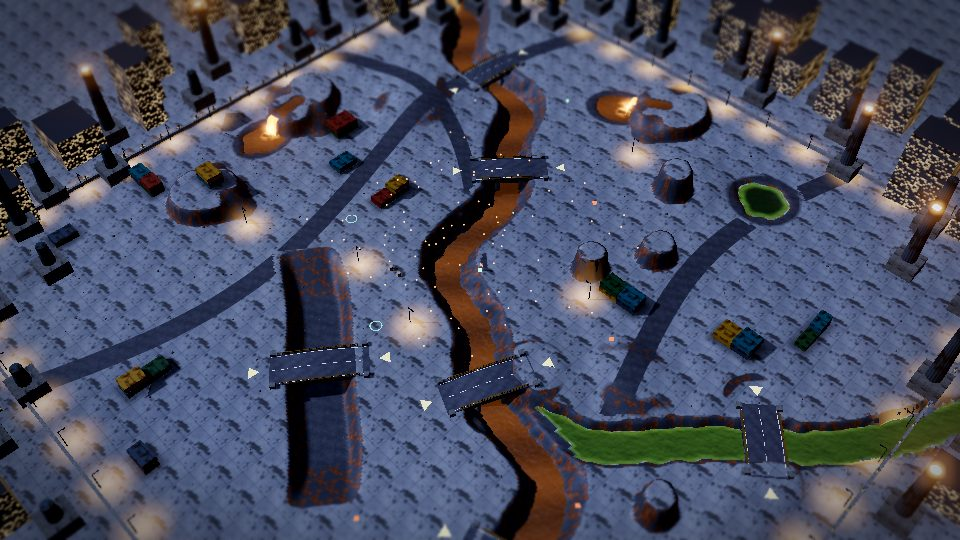
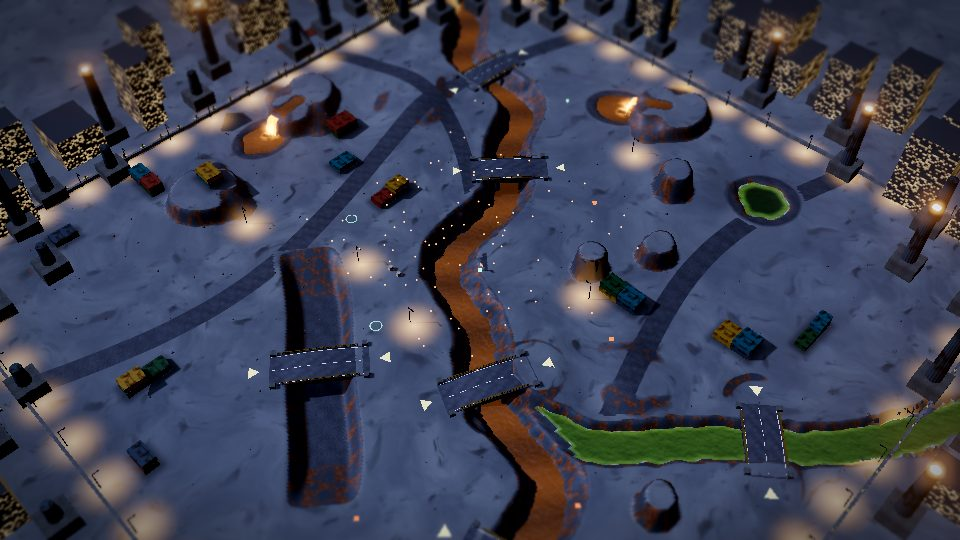
Seamless ground on the frost and foundry maps
The ice and frost-rock layers drew a Voronoi crack net and the foundry
concrete drew 4 m slab seams, both of which read as a grid from the game
camera. Rebake them as seamless noise surfaces, and on these two pale
maps fade in a rotated, rescaled second sample so texture repeats don't
show. Map-select previews updated; the preview script dismisses the new
welcome dialog, and __aerial can focus on a point for close shots.

Claude-Session: https://claude.ai/code/session_01CQuBPP2YhEir8auLZDwnvK

diff --git a/src/main.ts b/src/main.ts
@@ -120,7 +120,7 @@ html[data-play-mode=web] #controls, html[data-play-mode=web] .touch-only {displa
 @media (orientation:portrait) {html[data-play-mode=mobile] body::after {content:"${tr('请将设备横放游玩','Turn your device sideways to play')}";position:fixed;inset:0;display:grid;place-items:center;background:#101820;color:white;z-index:2147483647}}
 `;
 document.head.append(modeStyles);
-let selectedArena=profileStore.data.arena,activeArena=-1;let aerial:{yaw:number;distance:number;pitch:number}|null=null;
+let selectedArena=profileStore.data.arena,activeArena=-1;let aerial:{yaw:number;distance:number;pitch:number;fx:number;fz:number}|null=null;
 let layoutState=fitGameLayout(innerWidth,innerHeight),modelsReady=typeof window==='undefined',assetProgress=tr('资源准备中','Preparing assets'),assetPromise:Promise<boolean>=Promise.resolve(modelsReady);
 let gameUI:HTMLElement|null=null,safeProbe:HTMLElement|null=null;
 if(typeof window!=='undefined'){gameUI=document.createElement('div');gameUI.id='gameUI';app.append(gameUI);for(const id of ['hud','leave','pause','mute','notice','combatToast','reticle','bossHUD','floaters','pickupLabels','healthbars','controls','help','threat','hitDirection']){const el=document.querySelector('#'+id);if(el)gameUI.append(el);}safeProbe=document.createElement('div');safeProbe.id='safeProbe';app.append(safeProbe);}
@@ -415,8 +415,9 @@ resize();const cameraFocus=player.mesh.position.clone();
 // Local development hooks for scripted screenshots; never active on the deployed site.
 if(typeof location!=='undefined'&&location.hostname==='localhost'){(globalThis as any).__player=player;(globalThis as any).__cars=cars;(globalThis as any).__skill=activateSkill;(globalThis as any).__state=skillOf;(globalThis as any).__fx=(x:number,z:number,n:number)=>burst(new THREE.Vector3(x,terrainHeight(x,z)+.8,z),n);
  // Dev-only aerial camera used by scripts/map-previews.cjs to render the arena cards in the deploy menu.
- (globalThis as any).__aerial=(style:number,yaw=.78,distance=118,pitch=.72)=>{selectedArena=style;buildArena();scene.fog=null;// the whole 200 m arena has to read from the air
- cars.forEach(c=>c.mesh.visible=false);overlay.style.display='none';aerial={yaw,distance,pitch};};}
+ // fx/fz move the focus for close ground shots; those keep the fog so they match play.
+ (globalThis as any).__aerial=(style:number,yaw=.78,distance=118,pitch=.72,fx=0,fz=0)=>{selectedArena=style;buildArena();if(!fx&&!fz)scene.fog=null;// the whole 200 m arena has to read from the air
+ cars.forEach(c=>c.mesh.visible=false);overlay.style.display='none';aerial={yaw,distance,pitch,fx,fz};};}
 const cameraOffset=new THREE.Vector3(Math.cos(CAMERA_PITCH)*Math.SQRT1_2,Math.sin(CAMERA_PITCH),Math.cos(CAMERA_PITCH)*Math.SQRT1_2).multiplyScalar(CAMERA_DISTANCE);camera.position.copy(player.mesh.position).add(cameraOffset);camera.lookAt(player.mesh.position);
 // Visual-only motion layered on the simulated car: wheels spin and steer, the sprung body leans into corners,
 // squats under acceleration, rocks back from its own gun and from hits, and the tail steps out in hard turns.
@@ -435,7 +436,7 @@ function animateCars(dt:number){if(dt<=0)return;for(const c of cars){const visua
  turret.rotation.y=angleDelta(c.aim,c.angle)-m.slip;turret.position.x=Math.sin(turret.rotation.y)*m.recoil*.22;turret.position.z=(visual.userData.turretZ as number)+Math.cos(turret.rotation.y)*m.recoil*.22;}}
 function frame(now:number){let dt=document.hidden?0:Math.min((now-last)/1000,.05);last=now;if(hitStop>0){hitStop-=dt;dt*=.1;}tick(dt);animateCars(running&&!paused?dt:0);combatEffects.update(running&&!paused?dt:0,running&&!paused?cars:[]);skillFx.update(running&&!paused?dt:0);{const engine=(c:Car)=>({x:c.mesh.position.x,z:c.mesh.position.z,revs:Math.abs(c.speed)/Math.max(1,carSpec(c).speed),boost:c.boost>0,loadout:c.loadout,alive:c.alive});sound.setListener(player.mesh.position.x,player.mesh.position.z);sound.updateEngines(engine(player),running?cars.filter(c=>c!==player).map(engine):[]);sound.update(running&&!paused?dt:0);}for(const actor of cars)actor.mesh.visible=actor.alive&&playerSees(actor);cloakVisuals(dt);const eyes=cars.filter(c=>c.alive&&c.team===player.team);for(const shot of shots)shot.mesh.visible=shot.owner.team===player.team||eyes.some(e=>shot.mesh.position.distanceTo(e.mesh.position)<sightRange(vehicles[e.loadout].vision,e.mesh.position.y,shot.mesh.position.y)+2);const followed=player.alive?player:cars.find(c=>c.team===0&&c.alive)??player;const focus=followed.mesh.position.clone().add(new THREE.Vector3(-Math.sin(followed.angle),0,-Math.cos(followed.angle)).multiplyScalar(Math.min(1.5,Math.abs(followed.speed)*.14)));focus.x=THREE.MathUtils.clamp(focus.x,-ARENA+12,ARENA-12);focus.z=THREE.MathUtils.clamp(focus.z,-ARENA+12,ARENA-12);if(cameraFocus.distanceTo(focus)>20)cameraFocus.copy(focus);else cameraFocus.lerp(focus,smoothing(dt));camera.position.copy(cameraFocus).add(cameraOffset);if(!profileStore.data.settings.shake)cameraKick=0;cameraKick*=Math.exp(-12*dt);shakeClock+=dt;const wobble=(f:number,o:number)=>Math.sin(shakeClock*f+o)*.6+Math.sin(shakeClock*f*1.83+o*2.1)*.4;camera.position.x+=wobble(61,0)*cameraKick*1.6;camera.position.y+=wobble(53,2)*cameraKick*1.2;camera.position.z+=wobble(47,4)*cameraKick*1.6;camera.lookAt(camera.position.clone().sub(cameraOffset));camera.rotation.z+=wobble(39,1)*cameraKick*.06;
 // Field of view opens slightly with speed and kicks out under boost, which reads as acceleration.
-const rush=running&&followed.alive?Math.min(1,Math.abs(followed.speed)/Math.max(1,carSpec(followed).speed))*2.5+(followed.boost>0?5:0):0;fovKick+=(rush-fovKick)*smoothing(dt,5);camera.fov=baseFov+fovKick;camera.updateProjectionMatrix();hitFlash*=Math.exp(-5*dt);document.querySelector<HTMLElement>('#hitfx')!.style.opacity=String(hitFlash);camera.updateMatrixWorld();driveStick.querySelector<HTMLElement>('i')!.style.transform=`translate(${driveX*35}px,${driveY*35}px)`;document.querySelector<HTMLElement>('#aimKnob')!.style.transform=`translate(${aimX*28}px,${aimY*28}px)`;updateThreats(running&&!paused?dt:0);updateHealthbars();updateVisionLines();drawRadar();if(aerial){const f=new THREE.Vector3();camera.position.set(Math.sin(aerial.yaw)*Math.cos(aerial.pitch),Math.sin(aerial.pitch),Math.cos(aerial.yaw)*Math.cos(aerial.pitch)).multiplyScalar(aerial.distance);camera.fov=34;camera.lookAt(f);camera.updateProjectionMatrix();for(const c of cars)c.mesh.visible=false;if(pipeline)pipeline.render(dt,f);else renderer.render(scene,camera);}else if(running){if(pipeline)pipeline.render(paused?0:dt,cameraFocus);else renderer.render(scene,camera);}else renderHangar(now);requestAnimationFrame(frame);}requestAnimationFrame(frame);addEventListener('resize',syncViewport);document.addEventListener('visibilitychange',()=>{if(document.hidden&&running)setPaused(true);clearInput();last=performance.now();});
+const rush=running&&followed.alive?Math.min(1,Math.abs(followed.speed)/Math.max(1,carSpec(followed).speed))*2.5+(followed.boost>0?5:0):0;fovKick+=(rush-fovKick)*smoothing(dt,5);camera.fov=baseFov+fovKick;camera.updateProjectionMatrix();hitFlash*=Math.exp(-5*dt);document.querySelector<HTMLElement>('#hitfx')!.style.opacity=String(hitFlash);camera.updateMatrixWorld();driveStick.querySelector<HTMLElement>('i')!.style.transform=`translate(${driveX*35}px,${driveY*35}px)`;document.querySelector<HTMLElement>('#aimKnob')!.style.transform=`translate(${aimX*28}px,${aimY*28}px)`;updateThreats(running&&!paused?dt:0);updateHealthbars();updateVisionLines();drawRadar();if(aerial){const f=new THREE.Vector3(aerial.fx,aerial.fx||aerial.fz?terrainHeight(aerial.fx,aerial.fz):0,aerial.fz);camera.position.set(Math.sin(aerial.yaw)*Math.cos(aerial.pitch),Math.sin(aerial.pitch),Math.cos(aerial.yaw)*Math.cos(aerial.pitch)).multiplyScalar(aerial.distance).add(f);camera.fov=34;camera.lookAt(f);camera.updateProjectionMatrix();for(const c of cars)c.mesh.visible=false;if(pipeline)pipeline.render(dt,f);else renderer.render(scene,camera);}else if(running){if(pipeline)pipeline.render(paused?0:dt,cameraFocus);else renderer.render(scene,camera);}else renderHangar(now);requestAnimationFrame(frame);}requestAnimationFrame(frame);addEventListener('resize',syncViewport);document.addEventListener('visibilitychange',()=>{if(document.hidden&&running)setPaused(true);clearInput();last=performance.now();});
 
 function updateThreats(dt:number){hitDirectionTimer=Math.max(0,hitDirectionTimer-dt);threatTone=Math.max(0,threatTone-dt);const indicator=document.querySelector<HTMLElement>('#hitDirection')!;indicator.style.display=running&&player.alive&&hitDirectionTimer>0?'block':'none';indicator.style.transform=`translate(-50%,-50%) rotate(${hitDirectionAngle}rad)`;indicator.style.opacity=String(hitDirectionTimer/.7);const incoming=shots.filter(s=>s.owner.team!==player.team&&s.rocket&&s.mesh.position.distanceTo(player.mesh.position)<14&&s.velocity.dot(player.mesh.position.clone().sub(s.mesh.position))>0).sort((a,b)=>a.mesh.position.distanceToSquared(player.mesh.position)-b.mesh.position.distanceToSquared(player.mesh.position))[0];const warning=document.querySelector<HTMLElement>('#threat')!;warning.style.display=running&&player.alive&&incoming?'block':'none';if(incoming){warning.textContent=incoming.homing===player?tr('⚠ 导弹锁定 · 利用掩体躲避','⚠ Missile lock · Get behind cover'):tr('⚠ 火箭接近 · 横向闪避','⚠ Rocket incoming · Dodge sideways');if(dt>0&&threatTone===0){beep(660,.045);threatTone=.55;}}}
 function updateHealthbars(){for(const f of floating){const p=f.position.clone().project(camera);f.node.style.transform=`translate(-50%,-100%) translate(${toUI(p).x}px,${toUI(p).y}px)`;f.node.style.opacity=String(Math.min(1,f.ttl*3));}const boss=cars.find(c=>c.alive&&c.team===1&&c.maxHp>400&&match.mode==='horde');document.querySelector<HTMLElement>('#bossHUD')!.style.display=running&&boss?'block':'none';if(boss){document.querySelector('#bossName')!.textContent=boss.hp<boss.maxHp*.5?tr('重装首领 · 暴走','Heavy boss · Enraged'):tr('重装首领 · 炮击','Heavy boss · Shelling');document.querySelector<HTMLElement>('#bossHP')!.style.width=`${boss.hp/boss.maxHp*100}%`;}pickups.forEach((p,i)=>{const label=document.querySelector<HTMLElement>(`#pickup-label-${i}`)!,v=p.mesh.position.clone().add(new THREE.Vector3(0,1,0)).project(camera);label.style.display=running&&p.timer===0?'block':'none';label.textContent=p.kind?tr('2× 伤害','2× damage'):tr('＋ 维修','+ Repair');label.style.transform=`translate(-50%,-100%) translate(${toUI(v).x}px,${toUI(v).y}px)`;});const reticle=document.querySelector<HTMLElement>('#reticle')!;const lock=autoTarget(player);reticle.style.display=running&&player.alive?'block':'none';const aimPos=(Math.hypot(aimX,aimY)<.2&&!mouseAiming&&lock?lock.mesh.position.clone():player.mesh.position.clone().add(new THREE.Vector3(-Math.sin(player.aim)*12,0,-Math.cos(player.aim)*12))).add(new THREE.Vector3(0,1,0)).project(camera);reticle.style.transform=`translate(-50%,-50%) translate(${toUI(aimPos).x}px,${toUI(aimPos).y}px)`;cars.slice(1).forEach((c,i)=>{const bar=document.querySelector<HTMLElement>(i<2?`#ally-hp-${i}`:`#enemy-hp-${i-2}`)!;const p=c.mesh.position.clone().add(new THREE.Vector3(0,2.8,0)).project(camera);bar.style.display=running&&c.alive&&playerSees(c)&&Math.abs(p.x)<1&&Math.abs(p.y)<1?'block':'none';bar.style.transform=`translate(-50%,-100%) translate(${toUI(p).x}px,${toUI(p).y}px)`;bar.querySelector<HTMLElement>('i')!.style.width=`${c.hp/c.maxHp*100}%`;});zoneMeshes.forEach((m,i)=>{m.visible=running&&match.mode==='capture';(m.material as THREE.MeshBasicMaterial).color.setHex(match.points[i].owner===0?0x45cfe0:match.points[i].owner===1?0xf47861:0xddceac);});}

diff --git a/src/environment.ts b/src/environment.ts
@@ -60,12 +60,12 @@ const recipes:Record<string,(size:number)=>Layer>={
  sand:size=>bakeLayer(size,(u,v)=>{const w=fbm(u,v,3,4,11),ripple=.5+.5*Math.sin(TAU*(v*9+u*2+w*2.8)),dune=fbm(u,v,2,3,5);return .24+.3*Math.pow(ripple,1.4)*(.3+.7*dune)+.34*fbm(u,v,10,3,29)+.12*vnoise(u*96,v*96,96,3);},(h,u,v)=>ramp([rgb(0x8f7150),rgb(0xb5946a),rgb(0xcfb288),rgb(0xe2cca4)],h*.7+.3*fbm(u,v,5,3,77)),3,.94,10,.5),
  drytrack:size=>bakeLayer(size,(u,v)=>{const [f1,f2]=worley(u,v,9,21),plate=smooth((f2-f1)/.09),[p1]=worley(u,v,34,5);return plate*(.5+.3*fbm(u,v,12,3,8))+.14*(1-Math.min(1,p1*1.6))+.06*vnoise(u*128,v*128,128,2);},(h,u,v)=>ramp([rgb(0x4d3c2c),rgb(0x7f6548),rgb(0xa08462),rgb(0xb89c7a)],h*.8+.2*fbm(u,v,4,3,31)),7,.9,6,.25),
  sandstone:size=>bakeLayer(size,(u,v)=>{const n=fbm(u,v,3,6,41),ridged=1-Math.abs(2*n-1),strata=.5+.5*Math.sin(TAU*(v*7+n*1.6));const [f1,f2]=worley(u,v,5,71);return .5*ridged+.25*strata+.15*fbm(u,v,16,3,6)+.1*smooth((f2-f1)/.05);},(h,u,v)=>{const band=.5+.5*Math.sin(TAU*(v*7+fbm(u,v,3,6,41)*1.6));return mix3(ramp([rgb(0x60483a),rgb(0x93705a),rgb(0xb38e6c),rgb(0xceac88)],h),rgb(0xa0604a),band*.28);},8,.86,9,.2),
- concrete:size=>bakeLayer(size,(u,v)=>{const gx=Math.abs(((u*2)%1)-.5),gy=Math.abs(((v*2)%1)-.5),seam=Math.min(.5-gx,.5-gy),[p1]=worley(u,v,44,13),[c1,c2]=worley(u,v,4,57);return .72+.2*(fbm(u,v,14,4,9)-.5)-(p1<.1?.3*(1-p1/.1):0)-(seam<.012?.45:0)-(c2-c1<.012?.3:0);},(h,u,v)=>{const stain=fbm(u,v,3,5,23),oil=smooth((fbm(u,v,5,4,88)-.62)/.12);return mix3(ramp([rgb(0x3a3d40),rgb(0x6d7072),rgb(0x8d8f8c),rgb(0xa5a59e)],h*.55+stain*.45),rgb(0x23211f),oil*.6);},6,.82,8,0),
+ concrete:size=>bakeLayer(size,(u,v)=>{const [p1]=worley(u,v,44,13);return .62+.22*(fbm(u,v,3,5,9)-.5)+.12*(fbm(u,v,12,3,19)-.5)-(p1<.08?.22*(1-p1/.08):0);},(h,u,v)=>{const stain=fbm(u,v,2,5,23),oil=smooth((fbm(u,v,3,4,88)-.64)/.14);return mix3(ramp([rgb(0x3a3d40),rgb(0x5f6264),rgb(0x7d7f7c),rgb(0x96958e)],h*.45+stain*.55),rgb(0x23211f),oil*.5);},2.5,.82,16,.6),
  asphalt:size=>bakeLayer(size,(u,v)=>{const [a1]=worley(u,v,56,3),[c1,c2]=worley(u,v,3,19);return .35+.4*Math.min(1,a1*1.5)+.15*vnoise(u*128,v*128,128,9)-(c2-c1<.014?.3:0)+.1*fbm(u,v,6,3,4);},(h,u,v)=>ramp([rgb(0x17181a),rgb(0x2c2e31),rgb(0x45474a),rgb(0x66686a)],h*.7+.3*fbm(u,v,4,4,52)),5,.68,5,0),
  rustplate:size=>bakeLayer(size,(u,v)=>{const cell=(a:number,b:number)=>{const x=((a*14)%1)-.5,y=((b*14)%1)-.5;return Math.max(0,1-Math.hypot(x*1.2+y*1.2,(x-y)*3.4)*3.2);},tread=Math.max(cell(u,v),cell(v+.5/14,1-u+.5/14)),panel=Math.min(Math.abs(((u*2)%1)-.5),Math.abs(((v*2)%1)-.5))>.488?-.4:0,rust=smooth((fbm(u,v,4,5,61)-.46)/.14);return .4+.35*smooth(tread*1.6)+panel+rust*.18*fbm(u,v,24,2,7);},(h,u,v)=>{const rust=smooth((fbm(u,v,4,5,61)-.46)/.14);return mix3(ramp([rgb(0x2c3237),rgb(0x4f585e),rgb(0x717b80)],h),ramp([rgb(0x4a2613),rgb(0x8a4a22),rgb(0xb5703a)],fbm(u,v,18,3,90)),rust*.85);},6,.55,4,0),
  snow:size=>bakeLayer(size,(u,v)=>.25+.45*fbm(u,v,3,5,15)+.22*fbm(u,v,11,3,37)+.08*vnoise(u*128,v*128,128,6),(h,u,v)=>ramp([rgb(0xa9c3de),rgb(0xd4e3f2),rgb(0xf4f8fc),rgb(0xffffff)],h*.8+.2*fbm(u,v,6,3,44)),3.5,.72,9,.5),
- ice:size=>bakeLayer(size,(u,v)=>{const [f1,f2]=worley(u,v,5,27),[g1,g2]=worley(u,v,13,63);return .25+.5*smooth((f2-f1)/.04)*smooth((g2-g1)/.03)+.2*fbm(u,v,6,4,2);},(h,u,v)=>{const [f1,f2]=worley(u,v,5,27),[g1,g2]=worley(u,v,13,63),crack=1-smooth((f2-f1)/.04)*smooth((g2-g1)/.05);return mix3(ramp([rgb(0x4d7f9c),rgb(0x7fb0c8),rgb(0xaed4e2)],fbm(u,v,3,5,81)),rgb(0xeaf6fb),crack*.8);},3,.14,10,.15),
- frostrock:size=>bakeLayer(size,(u,v)=>{const n=fbm(u,v,3,6,47),ridged=1-Math.abs(2*n-1);const [f1,f2]=worley(u,v,6,33);return .55*ridged+.2*fbm(u,v,14,3,12)+.25*smooth((f2-f1)/.08);},(h,u,v)=>{const frost=smooth((h-.62)/.2)*smooth((fbm(u,v,5,3,70)-.35)/.3);return mix3(ramp([rgb(0x24292f),rgb(0x4a525a),rgb(0x7a848c),rgb(0x9ba5ab)],h),rgb(0xf2f7fb),frost*.9);},8,.8,9,.2),
+ ice:size=>bakeLayer(size,(u,v)=>{const s=fbm(u,v,4,5,2),hair=1-Math.abs(2*fbm(u,v,3,4,27)-1);return .45+.3*s+.15*fbm(u,v,9,3,63)-.12*smooth((hair-.94)/.05);},(h,u,v)=>{const hair=1-Math.abs(2*fbm(u,v,3,4,27)-1),frost=smooth((fbm(u,v,4,4,81)-.5)/.25);return mix3(mix3(ramp([rgb(0x5a8aa6),rgb(0x86b6cc),rgb(0xb4d8e6)],fbm(u,v,2,5,81)),rgb(0xe4f1f7),frost*.45),rgb(0xeaf6fb),smooth((hair-.95)/.04)*.35);},2,.14,18,.6),
+ frostrock:size=>bakeLayer(size,(u,v)=>{const n=fbm(u,v,3,6,47),ridged=1-Math.abs(2*n-1),strata=.5+.5*Math.sin(TAU*(v*5+n*2.2));return .5*ridged+.2*strata+.3*fbm(u,v,10,4,12);},(h,u,v)=>{const frost=smooth((h-.6)/.2)*smooth((fbm(u,v,4,3,70)-.35)/.3);return mix3(ramp([rgb(0x2a3036),rgb(0x4d555d),rgb(0x78828a),rgb(0x98a2a8)],h),rgb(0xf2f7fb),frost*.85);},7,.8,12,.45),
  ash:size=>bakeLayer(size,(u,v)=>{const [p1]=worley(u,v,30,44);return .3+.4*fbm(u,v,5,5,52)+.2*(1-Math.min(1,p1*1.7))+.1*vnoise(u*128,v*128,128,8);},(h,u,v)=>ramp([rgb(0x1f1b1a),rgb(0x3a3432),rgb(0x57504c),rgb(0x716a64)],h*.7+.3*fbm(u,v,4,4,66)),4.5,.95,8,.4),
  lavacrust:size=>bakeLayer(size,(u,v)=>{const [f1,f2]=worley(u,v,7,83),plate=smooth((f2-f1)/.07);return plate*(.55+.35*fbm(u,v,10,3,21))+.05*vnoise(u*96,v*96,96,4);},(h,u,v)=>{const [f1,f2]=worley(u,v,7,83),crack=1-smooth((f2-f1)/.05);return mix3(ramp([rgb(0x120e0d),rgb(0x2a2220),rgb(0x40332e)],h),mix3(rgb(0xff5a10),rgb(0xffd257),crack*crack),crack);},7,.8,7,.2),
  basalt:size=>bakeLayer(size,(u,v)=>{const n=fbm(u,v,3,6,49),ridged=1-Math.abs(2*n-1);const [f1,f2]=worley(u,v,8,37);return .45*ridged+.3*smooth((f2-f1)/.1)+.25*fbm(u,v,15,3,13);},(h,u,v)=>mix3(ramp([rgb(0x141315),rgb(0x2f2d30),rgb(0x4d4a4c),rgb(0x6a6664)],h),rgb(0x5a2a1a),smooth((fbm(u,v,4,4,77)-.55)/.2)*.5),8,.7,9,.2),
@@ -110,18 +110,22 @@ const macroTints:[number,number][]=[[0xd9c7b6,0xfff0d8],[0xc9cdd2,0xf2efe8],[0xd
 function groundMaterial(style:number){
  const layers=layerSets[style].map(layer),look=arenaLooks[style];
  const material=new THREE.MeshStandardMaterial({roughness:1,metalness:0,map:layers[0].albedo,normalMap:layers[0].normal});
- const uniforms={tA1:{value:layers[1].albedo},tA2:{value:layers[2].albedo},tN1:{value:layers[1].normal},tN2:{value:layers[2].normal},tMacro:{value:macroTexture()},uTile:{value:new THREE.Vector3(...layers.map(l=>1/l.metres))},uWarp:{value:new THREE.Vector3(...layers.map(l=>l.warp))},uRough:{value:new THREE.Vector3(...layers.map(l=>l.roughness))},uTintA:{value:new THREE.Color(macroTints[style][0])},uTintB:{value:new THREE.Color(macroTints[style][1])},uCloud:{value:look.cloud},uGlow:{value:style===3?7:0},uTime:environmentUniforms.uTime};
- material.customProgramCacheKey=()=>'arena-ground-v3';
+ const uniforms={tA1:{value:layers[1].albedo},tA2:{value:layers[2].albedo},tN1:{value:layers[1].normal},tN2:{value:layers[2].normal},tMacro:{value:macroTexture()},uTile:{value:new THREE.Vector3(...layers.map(l=>1/l.metres))},uWarp:{value:new THREE.Vector3(...layers.map(l=>l.warp))},uRough:{value:new THREE.Vector3(...layers.map(l=>l.roughness))},uTintA:{value:new THREE.Color(macroTints[style][0])},uTintB:{value:new THREE.Color(macroTints[style][1])},uCloud:{value:look.cloud},uGlow:{value:style===3?7:0},uAnti:{value:style===1||style===2?1:0},uTime:environmentUniforms.uTime};
+ material.customProgramCacheKey=()=>'arena-ground-v4';
  material.onBeforeCompile=shader=>{Object.assign(shader.uniforms,uniforms);
   shader.vertexShader=shader.vertexShader.replace('#include <common>','#include <common>\nattribute vec3 splat;attribute float shade;varying vec3 vSplat;varying float vShade;varying vec3 vGroundPos;varying vec3 vGroundNormal;').replace('#include <begin_vertex>','#include <begin_vertex>\nvSplat=splat;vShade=shade;vGroundPos=(modelMatrix*vec4(position,1.)).xyz;vGroundNormal=normalize(mat3(modelMatrix)*normal);');
   shader.fragmentShader=shader.fragmentShader.replace('#include <common>',`#include <common>
-uniform sampler2D tA1,tA2,tN1,tN2,tMacro;uniform vec3 uTile,uWarp,uRough,uTintA,uTintB;uniform float uCloud,uTime,uGlow;
+uniform sampler2D tA1,tA2,tN1,tN2,tMacro;uniform vec3 uTile,uWarp,uRough,uTintA,uTintB;uniform float uCloud,uTime,uGlow,uAnti;
+const mat2 gRot=mat2(.8,-.6,.6,.8);
 varying vec3 vSplat;varying float vShade;varying vec3 vGroundPos;varying vec3 vGroundNormal;
 vec3 gBlend;vec3 gTangentNormal;vec3 gGlow;float gHeight;`).replace('#include <map_fragment>',`
  vec4 macro=texture2D(tMacro,vGroundPos.xz*.011);
  vec2 warp=(macro.rg-.5)*2.4;
  vec2 uv0=vGroundPos.xz*uTile.x+warp*uWarp.x,uv1=vGroundPos.xz*uTile.y+warp*uWarp.y,uv2=vGroundPos.xz*uTile.z+warp*uWarp.z;
  vec4 a0=texture2D(map,uv0),a1=texture2D(tA1,uv1),a2=texture2D(tA2,uv2);
+ // Pale snow and concrete show texture repeats; a second rotated, rescaled copy faded in by large noise hides them.
+ float gMix=uAnti*smoothstep(.3,.7,texture2D(tMacro,vGroundPos.xz*.0061+.53).g);vec2 uvB0=gRot*uv0*.61+.37,uvB1=gRot*uv1*.61+.37,uvB2=gRot*uv2*.61+.37;
+ if(uAnti>0.){a0=mix(a0,texture2D(map,uvB0),gMix);a1=mix(a1,texture2D(tA1,uvB1),gMix);a2=mix(a2,texture2D(tA2,uvB2),gMix);}
  // Height blending: the taller layer wins near a boundary, so sand settles into cracks instead of cross-fading.
  vec3 lift=vSplat+vec3(a0.a,a1.a,a2.a)*.55;float top=max(lift.x,max(lift.y,lift.z))-.16;
  gBlend=max(lift-top,0.)*step(.004,vSplat);gBlend/=max(1e-4,gBlend.x+gBlend.y+gBlend.z);
@@ -133,7 +137,9 @@ vec3 gBlend;vec3 gTangentNormal;vec3 gGlow;float gHeight;`).replace('#include <m
  diffuseColor.rgb*=albedo;
  // Molten cracks: only the orange part of the track layer emits, with a slow pulse.
  gGlow=a1.rgb*gBlend.y*smoothstep(.22,.55,a1.r-a1.b*1.6)*uGlow*(.8+.2*sin(uTime*1.3+vGroundPos.x*.21+vGroundPos.z*.17));
- gTangentNormal=normalize((texture2D(normalMap,uv0).xyz*2.-1.)*gBlend.x+(texture2D(tN1,uv1).xyz*2.-1.)*gBlend.y+(texture2D(tN2,uv2).xyz*2.-1.)*gBlend.z);`)
+ vec3 n0=texture2D(normalMap,uv0).xyz,n1=texture2D(tN1,uv1).xyz,n2=texture2D(tN2,uv2).xyz;
+ if(uAnti>0.){n0=mix(n0,texture2D(normalMap,uvB0).xyz,gMix);n1=mix(n1,texture2D(tN1,uvB1).xyz,gMix);n2=mix(n2,texture2D(tN2,uvB2).xyz,gMix);}
+ gTangentNormal=normalize((n0*2.-1.)*gBlend.x+(n1*2.-1.)*gBlend.y+(n2*2.-1.)*gBlend.z);`)
    .replace('#include <emissivemap_fragment>','#include <emissivemap_fragment>\n totalEmissiveRadiance+=gGlow;')
    .replace('#include <roughnessmap_fragment>','float roughnessFactor=clamp(dot(gBlend,uRough)+(.5-gHeight)*.12,.04,1.);')
    .replace('#include <normal_fragment_maps>',`
